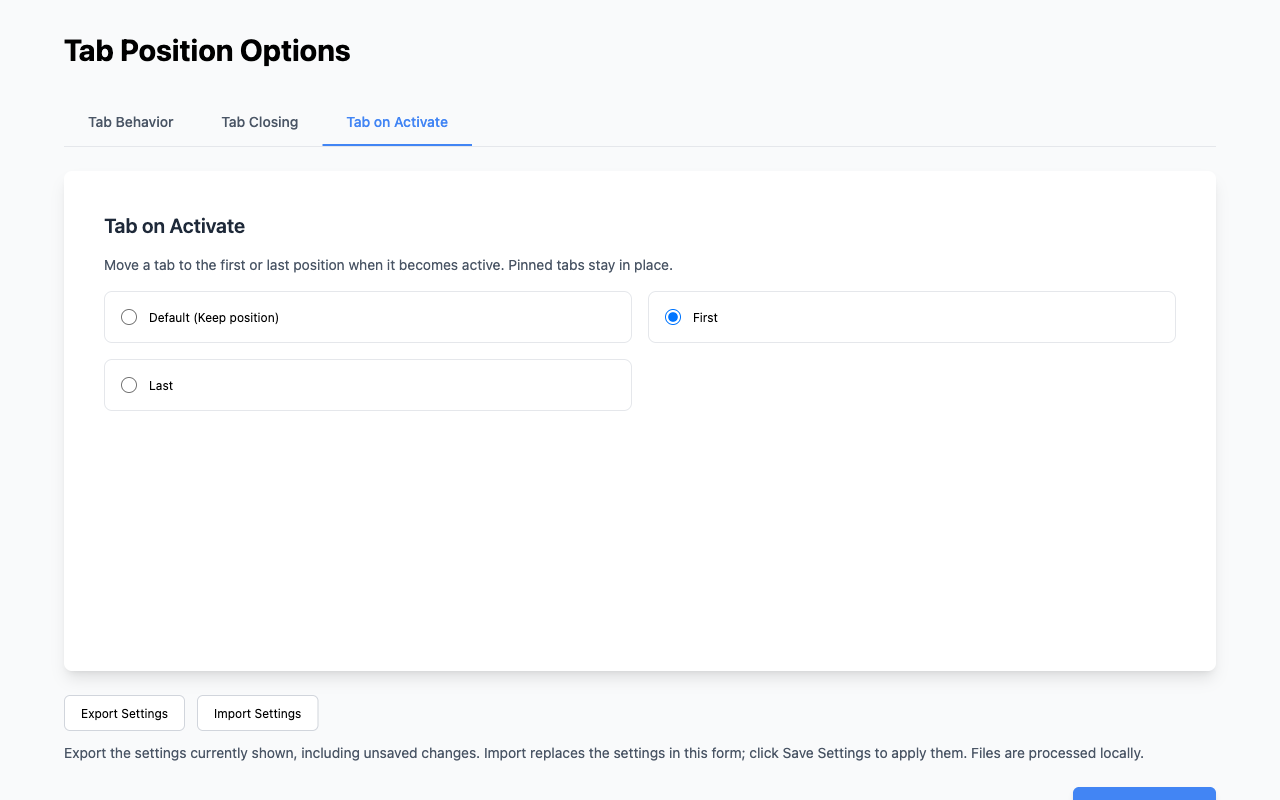
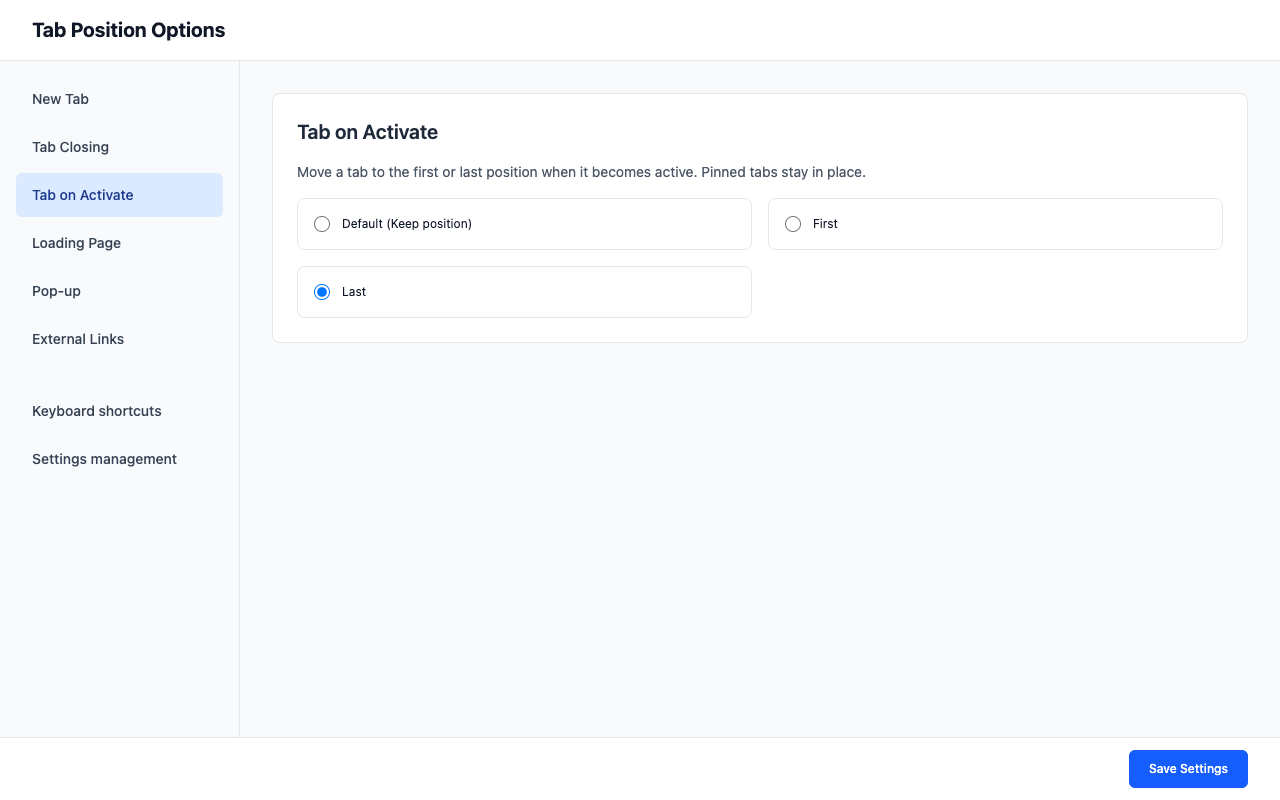
docs: refresh settings screenshots for the new layout

diff --git a/CHROMEWEBSTORE.md b/CHROMEWEBSTORE.md
@@ -51,7 +51,7 @@ HOW TO USE
 2. Choose your tab preferences and add URL rules if needed.
 3. Click Save Settings.
 
-Long URL rule lists scroll within their sections. If settings cannot be synchronized, the settings page explains whether the sync storage limit was exceeded or another sync failure occurred; saved local settings remain available.
+Settings are organized by category, with a Save Settings button that stays visible while scrolling. Import/export and keyboard shortcuts have dedicated sections. If settings cannot be synchronized, a shared notice explains whether the sync storage limit was exceeded or another sync failure occurred; saved local settings remain available.
 
 PRIVACY
 Settings and user-entered URL rules are stored locally and synchronized through Google's Chrome Sync service when enabled. Browsing URLs and session tab state are not synchronized. New-tab and navigation URLs are processed locally to apply your URL rules. When external-link handling is enabled, a content script reads the clicked link and current page URL. These browsing values are not sent to external services; following a link makes the normal browser request to its destination. The extension does not use analytics or tracking services.
@@ -183,14 +183,15 @@ Dashboard uploads were observed; exact byte-for-byte identity with local files h
 | Store icon | [public/icon-128.png](public/icon-128.png), 128×128 | Uploaded |
 | Screenshot 1 — New Tab | [screenshot-1.png](store-assets/screenshots/screenshot-1.png), 1280×800 | Updated locally; not uploaded. Opening position and background behavior |
 | Screenshot 2 — Tab Closing | [screenshot-2.png](store-assets/screenshots/screenshot-2.png), 1280×800 | Updated locally; not uploaded. Choosing the next active tab after closing |
-| Screenshot 3 — Tab on Activate | [screenshot-3.png](store-assets/screenshots/screenshot-3.png), 1280×800 | Created locally; not uploaded. Activation position |
-| Screenshot 4 — URL rules and pop-ups | [screenshot-4.png](store-assets/screenshots/screenshot-4.png), 1280×800 | Created locally; not uploaded. URL rules and pop-up exceptions with example.com patterns |
+| Screenshot 3 — Tab on Activate | [screenshot-3.png](store-assets/screenshots/screenshot-3.png), 1280×800 | Updated locally; not uploaded. Activation position |
+| Screenshot 4 — Pop-up | [screenshot-4.png](store-assets/screenshots/screenshot-4.png), 1280×800 | Updated locally; not uploaded. Pop-up conversion and an example.com exception |
+| Screenshot 5 — External Links | [screenshot-5.png](store-assets/screenshots/screenshot-5.png), 1280×800 | Created locally; not uploaded. External link handling and a background-tab URL rule |
 | Small promo tile | [promotional-440x280.png](store-assets/promotional-440x280.png), 440×280 | Uploaded |
 | Marquee promo tile | Local source not identified | Uploaded; dashboard specifies 1400×560 |
 
-Upload screenshots 1–4 in the order above. All four are direct captures of 1280×800 regions of the English settings page at its original scale, without added headings, backgrounds, or rearrangement. They are verified as 24-bit RGB PNG without alpha. The settings shown are illustrative. The dashboard still contains the previous screenshots until these replacements are uploaded.
+Upload screenshots 1–5 in the order above. All five are direct 1280×800 viewport captures of the English settings page with the new category navigation and persistent save bar, at its original scale, without added headings, backgrounds, or rearrangement. They are verified as 24-bit RGB PNG without alpha. The settings shown are illustrative. The dashboard still contains the previous screenshots until these replacements are uploaded.
 
-[tab-behavior.png](store-assets/tab-behavior.png) is the separate 1280×1721 full-page image used in the READMEs; it is not a store screenshot.
+[new-tab.png](store-assets/new-tab.png) is the 1280×800 New Tab image used in all three READMEs. It uses the same capture as screenshot 1 and replaces the previous tab-behavior.png image.
 
 `store-assets/social-preview-1280x640.png` is 1280×640 and must not be assumed to be the uploaded 1400×560 marquee asset.
 

diff --git a/README.ja.md b/README.ja.md
@@ -30,7 +30,7 @@
 
 ソースコードからインストールする場合は、[手動インストール](#手動インストール)を参照してください。
 
-<img src="store-assets/tab-behavior.png" alt="Tab Position Options Forkの設定画面" width="640">
+<img src="store-assets/new-tab.png" alt="Tab Position Options Forkの新規タブ設定" width="640">
 
 ## プライバシー
 

diff --git a/README.md b/README.md
@@ -30,7 +30,7 @@ The options page follows your browser’s UI language. See [supported languages]
 
 For installation from source, see [Manual Installation](#manual-installation).
 
-<img src="store-assets/tab-behavior.png" alt="Tab Position Options Fork settings" width="640">
+<img src="store-assets/new-tab.png" alt="Tab Position Options Fork — New Tab settings" width="640">
 
 ## Privacy
 

diff --git a/README.zh-CN.md b/README.zh-CN.md
@@ -30,7 +30,7 @@
 
 如需从源代码安装，请参阅[手动安装](#手动安装)。
 
-<img src="store-assets/tab-behavior.png" alt="Tab Position Options Fork设置界面" width="640">
+<img src="store-assets/new-tab.png" alt="Tab Position Options Fork的新标签页设置" width="640">
 
 ## 隐私
 
